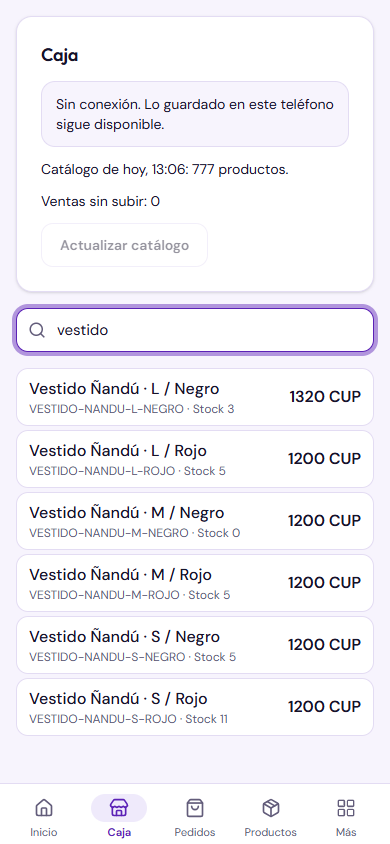
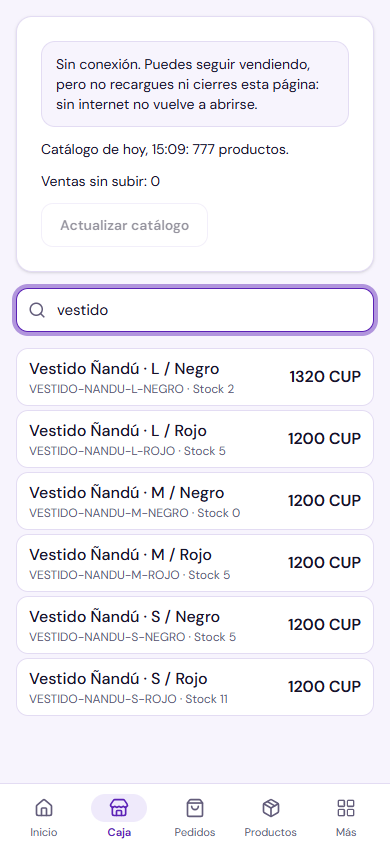
feat(pos): sell at the counter from the web admin
Whoever has an iPhone has no app yet: Admin > Caja now opens on a sale
screen in the browser, the same one as Kshop Admin, and keeps the summary
in its own tab. With the page open it keeps selling without a connection
and uploads when it comes back; it does not promise to open offline.

Changed region(s): [[0.0308, 0.0616, 0.9846, 0.8626]]

diff --git a/apps/web/src/features/pos/components/PosPage.tsx b/apps/web/src/features/pos/components/PosPage.tsx
@@ -1,12 +1,12 @@
 "use client";
 
 import { formatMoney, formatRate, orderCode, posFlagText } from "@kshop/core";
-import { useCheckoutSettings, LoadError, ORDER_TABLES, useStoreVersion } from "@kshop/admin";
+import { useCheckoutSettings, LoadError, ORDER_TABLES, PosScreen, useStoreVersion } from "@kshop/admin";
 import type { PosOverview } from "@kshop/data";
 import { Card, cn } from "@kshop/ui";
 import { Link, useStore } from "@kshop/storefront";
-import { useEffect, useState } from "react";
-import { useAdmin } from "@/app/s/[storeSlug]/admin/admin-context";
+import { useEffect, useState, useSyncExternalStore } from "react";
+import { menuSection, useAdmin } from "@/app/s/[storeSlug]/admin/admin-context";
 import { useSession } from "@/lib/session";
 
 const PERIODS = [
@@ -22,8 +22,69 @@ const dateTime = (iso: string) =>
     timeZone: "America/Havana",
   }).format(new Date(iso));
 
-/** Admin › Caja: the sale happens on the phone (Kshop Admin); here the owner sees what came in and what to check. */
+function subscribeOnline(onChange: () => void) {
+  window.addEventListener("online", onChange);
+  window.addEventListener("offline", onChange);
+  return () => {
+    window.removeEventListener("online", onChange);
+    window.removeEventListener("offline", onChange);
+  };
+}
+
+/** Admin › Caja: selling from any browser (an iPhone has no app yet) and what came in. Without internet, Kshop Admin. */
 export function PosPage() {
+  const store = useStore();
+  const admin = useAdmin();
+  const online = useSyncExternalStore(
+    subscribeOnline,
+    () => navigator.onLine,
+    () => true,
+  );
+  // A managed section is read-only for the staff: the server would refuse their sales.
+  const canSell = menuSection(admin, "pos").visibility !== "managed";
+  const [chosen, setChosen] = useState<"sell" | "summary">("sell");
+  const tab = canSell ? chosen : "summary";
+
+  return (
+    <div className="flex max-w-3xl flex-col gap-4">
+      <h1 className="text-2xl font-semibold">Caja</h1>
+      {canSell && (
+        <div role="tablist" aria-label="Caja" className="flex gap-1.5">
+          {(
+            [
+              { key: "sell", label: "Vender" },
+              { key: "summary", label: "Resumen" },
+            ] as const
+          ).map((t) => (
+            <button
+              key={t.key}
+              role="tab"
+              aria-selected={tab === t.key}
+              onClick={() => setChosen(t.key)}
+              className={cn(
+                "h-[34px] rounded-full border px-3.5 text-sm whitespace-nowrap",
+                tab === t.key
+                  ? "border-night bg-night font-semibold text-white"
+                  : "bg-background hover:bg-surface",
+              )}
+            >
+              {t.label}
+            </button>
+          ))}
+        </div>
+      )}
+      {/* Hidden, not unmounted: looking at the summary does not lose the sale in progress. */}
+      {canSell && (
+        <div hidden={tab !== "sell"} className="[--app-tabs-height:0px] md:[--app-sidebar-width:248px]">
+          <PosScreen storeId={store.id} online={online} />
+        </div>
+      )}
+      {tab === "summary" && <PosSummary />}
+    </div>
+  );
+}
+
+function PosSummary() {
   const store = useStore();
   const admin = useAdmin();
   const { reads } = useSession();
@@ -50,19 +111,19 @@ export function PosPage() {
   }, [reads, store.id, days, live, attempt]);
 
   return (
-    <div className="flex max-w-3xl flex-col gap-4">
-      <h1 className="text-2xl font-semibold">Caja</h1>
-      <Card className="text-sm">
-        <p>
-          Se vende desde <strong>Kshop Admin</strong> en el teléfono, también sin internet. Las ventas llegan
-          aquí cuando el teléfono tiene conexión, con la fecha en que se vendieron.
-        </p>
+    <div className="flex flex-col gap-4">
+      <p className="text-sm text-muted-foreground" data-testid="pos-web-note">
+        Para vender sin internet, usa Kshop Admin en Android: sus ventas llegan aquí cuando el teléfono tiene
+        conexión, con la fecha en que se vendieron. La venta desde esta página necesita internet para abrirse.
         {admin.enabledModules.has("mobile_app") && (
-          <Link href="/admin/mobile-app" className="mt-2 inline-block underline">
-            Instalar Kshop Admin
-          </Link>
+          <>
+            {" "}
+            <Link href="/admin/mobile-app" className="underline">
+              Instalar Kshop Admin
+            </Link>
+          </>
         )}
-      </Card>
+      </p>
 
       <div role="tablist" aria-label="Periodo" className="flex gap-1.5">
         {PERIODS.map((p) => (

diff --git a/packages/admin/src/pos/PosScreen.tsx b/packages/admin/src/pos/PosScreen.tsx
@@ -22,7 +22,7 @@ import { Alert, Badge, Button, Card, Dialog, Input, Label, Select, Minus, Plus, 
 import { useMemo, useRef, useState } from "react";
 import { PosDay } from "./PosDay";
 import { usePosSales } from "./pos-sync";
-import { PosStatus, usePosCatalog, usePosStorage } from "./PosStatus";
+import { PosStatus, usePosCatalog, usePosPlace, usePosStorage } from "./PosStatus";
 import type { PosCatalogSnapshot } from "./storage";
 
 type CartLine = { item: PosCatalogItem; quantity: number; unitPrice: number };
@@ -34,6 +34,7 @@ const itemLabel = (item: PosCatalogItem) =>
 /** Selling at the counter, with or without a connection: search, add, charge. The sale is saved on the phone first. */
 export function PosScreen({ storeId, online }: { storeId: string; online: boolean }) {
   const storage = usePosStorage();
+  const place = usePosPlace();
   const catalog = usePosCatalog(storeId, online);
   const [query, setQuery] = useState("");
   const [cart, setCart] = useState<CartLine[]>([]);
@@ -89,7 +90,7 @@ export function PosScreen({ storeId, online }: { storeId: string; online: boolea
 
       {saved && (
         <Alert data-testid="pos-saved">
-          Venta {saved.number} guardada en el teléfono.{saved.change ? ` Vuelto: ${saved.change}.` : ""}
+          Venta {saved.number} guardada en este {place}.{saved.change ? ` Vuelto: ${saved.change}.` : ""}
         </Alert>
       )}
 
@@ -186,7 +187,7 @@ export function PosScreen({ storeId, online }: { storeId: string; online: boolea
       )}
 
       {cart.length > 0 && (
-        <div className="fixed inset-x-0 bottom-[calc(var(--app-tabs-height,4rem)+env(safe-area-inset-bottom))] z-10 flex items-center justify-between gap-3 border-t bg-background px-4 py-3">
+        <div className="fixed right-0 left-[var(--app-sidebar-width,0px)] bottom-[calc(var(--app-tabs-height,4rem)+env(safe-area-inset-bottom))] z-10 flex items-center justify-between gap-3 border-t bg-background px-4 py-3">
           <span className="text-lg font-semibold" data-testid="pos-total">
             {formatMoney(total, currency)}
           </span>
@@ -274,6 +275,7 @@ function PosCheckout({
   const [method, setMethod] = useState("");
   const [saving, setSaving] = useState(false);
   const [error, setError] = useState<string | null>(null);
+  const place = usePosPlace();
 
   const same = paidIn === currency;
   const { unit, per } = rateQuote(paidIn, currency);
@@ -320,7 +322,7 @@ function PosCheckout({
     try {
       await onConfirm([...payments, paid]);
     } catch {
-      setError("No se pudo guardar la venta en el teléfono. Inténtalo de nuevo; no se ha perdido nada.");
+      setError(`No se pudo guardar la venta en este ${place}. Inténtalo de nuevo; no se ha perdido nada.`);
       setSaving(false);
     }
   }

diff --git a/apps/web/src/app/s/[storeSlug]/admin/AdminShell.tsx b/apps/web/src/app/s/[storeSlug]/admin/AdminShell.tsx
@@ -20,6 +20,7 @@ import {
   CreditCard,
   Users,
   ConfirmProvider,
+  useConfirm,
 } from "@kshop/ui";
 import Link from "next/link";
 import { useRouter } from "next/navigation";
@@ -31,7 +32,7 @@ import { FullkodCredit } from "@/components/FullkodCredit";
 import { ADMIN_GROUPS, type AdminGroup } from "@/features/types";
 import { useStorePathname } from "@/lib/navigation";
 import { useSession } from "@/lib/session";
-import { ORDER_TABLES, useStoreVersion } from "@kshop/admin";
+import { ORDER_TABLES, usePosStorage, useStoreVersion } from "@kshop/admin";
 import { useStore } from "@kshop/storefront";
 import {
   AdminContext,
@@ -292,15 +293,7 @@ export function AdminShell({ children }: { children: ReactNode }) {
           </span>
           <span className="truncate text-xs text-[#C8C0DA]">{email}</span>
         </span>
-        <button
-          type="button"
-          onClick={signOut}
-          aria-label="Cerrar sesión"
-          title="Cerrar sesión"
-          className="flex size-9 items-center justify-center rounded-lg text-[#D9D3EA] hover:bg-white/8 hover:text-white"
-        >
-          <LogOut size={16} aria-hidden />
-        </button>
+        <SidebarSignOut signOut={signOut} counter={admin.enabledModules.has("pos")} />
       </div>
     </>
   );
@@ -417,6 +410,43 @@ export function AdminShell({ children }: { children: ReactNode }) {
         </div>
       </ConfirmProvider>
     </AdminContext.Provider>
+  );
+}
+
+/** The sales of the counter stay in this browser, but only someone of this store signed in here can upload them. */
+function SidebarSignOut({ signOut, counter }: { signOut: () => Promise<void>; counter: boolean }) {
+  const store = useStore();
+  const storage = usePosStorage();
+  const { confirm } = useConfirm();
+
+  async function ask() {
+    const sales = counter ? await storage.listSales(store.id).catch(() => []) : [];
+    const pending = sales.filter((s) => !s.uploaded).length;
+    if (
+      pending > 0 &&
+      !(await confirm({
+        title: `Hay ${pending === 1 ? "1 venta" : `${pending} ventas`} sin subir`,
+        description:
+          "Se quedan guardadas en este navegador, pero no se subirán hasta que alguien de la tienda vuelva a entrar aquí.",
+        confirmLabel: "Cerrar sesión igualmente",
+        tone: "destructive",
+      }))
+    ) {
+      return;
+    }
+    await signOut();
+  }
+
+  return (
+    <button
+      type="button"
+      onClick={() => void ask()}
+      aria-label="Cerrar sesión"
+      title="Cerrar sesión"
+      className="flex size-9 items-center justify-center rounded-lg text-[#D9D3EA] hover:bg-white/8 hover:text-white"
+    >
+      <LogOut size={16} aria-hidden />
+    </button>
   );
 }
 

diff --git a/packages/admin/src/pos/PosStatus.tsx b/packages/admin/src/pos/PosStatus.tsx
@@ -20,6 +20,11 @@ export function usePosStorage(): PosStorage {
   return config.posStorage ?? (webStorage ??= createIndexedDbPosStorage());
 }
 
+/** Where the sales are kept, in the words of the screen: the app's files or the browser of the web admin. */
+export function usePosPlace(): "teléfono" | "navegador" {
+  return useSession().config.posStorage ? "teléfono" : "navegador";
+}
+
 export function usePosCatalog(storeId: string, online: boolean) {
   const { api } = useSession();
   const storage = usePosStorage();
@@ -92,24 +97,29 @@ export function PosStatus({
   pending: number | null;
 }) {
   const { snapshot, loaded, refreshing, failed, refresh } = catalog;
+  const place = usePosPlace();
 
   const products = useMemo(() => snapshot?.items.length ?? 0, [snapshot]);
 
   return (
     <Card className="flex flex-col gap-3" data-testid="pos-status">
-      <h2 className="text-lg font-semibold">Caja</h2>
+      {place === "teléfono" && <h2 className="text-lg font-semibold">Caja</h2>}
       {!online && (
-        <Alert data-testid="pos-offline">Sin conexión. Lo guardado en este teléfono sigue disponible.</Alert>
+        <Alert data-testid="pos-offline">
+          {place === "teléfono"
+            ? "Sin conexión. Lo guardado en este teléfono sigue disponible."
+            : "Sin conexión. Puedes seguir vendiendo, pero no recargues ni cierres esta página: sin internet no vuelve a abrirse."}
+        </Alert>
       )}
       {!loaded ? (
-        <p className="text-sm text-muted-foreground">Leyendo el teléfono…</p>
+        <p className="text-sm text-muted-foreground">Leyendo el {place}…</p>
       ) : snapshot ? (
         <p className="text-sm" data-testid="pos-catalog">
           Catálogo {catalogAge(snapshot.savedAt)}: {products} productos.
         </p>
       ) : (
         <Alert variant="destructive" data-testid="pos-no-catalog">
-          Este teléfono aún no tiene el catálogo.{" "}
+          Este {place} aún no tiene el catálogo.{" "}
           {online ? "Descárgalo para vender." : "Conéctalo a internet una vez."}
         </Alert>
       )}

diff --git a/packages/admin/src/pos/PosDay.tsx b/packages/admin/src/pos/PosDay.tsx
@@ -2,6 +2,7 @@
 
 import { formatMoney, posCartTotal, posDaySummary, type CurrencyCode } from "@kshop/core";
 import { Alert, Badge, Button, Card, useConfirm } from "@kshop/ui";
+import { usePosPlace } from "./PosStatus";
 import type { QueuedSale } from "./storage";
 
 /** The day on this phone, per currency as it was charged, and what happened to each sale. */
@@ -21,6 +22,7 @@ export function PosDay({
   onVoid: (sale: QueuedSale) => Promise<void>;
 }) {
   const { confirm } = useConfirm();
+  const place = usePosPlace();
   const summary = posDaySummary(sales, currency);
   const held = sales.filter((s) => s.held && !s.uploaded);
   const pending = sales.filter((s) => !s.uploaded);
@@ -43,7 +45,7 @@ export function PosDay({
     <Card className="flex flex-col gap-3" data-testid="pos-day">
       <div className="flex items-start justify-between gap-3">
         <div>
-          <h2 className="font-semibold">Hoy en este teléfono</h2>
+          <h2 className="font-semibold">Hoy en este {place}</h2>
           <p className="text-sm" data-testid="pos-day-summary">
             {summary.count} {summary.count === 1 ? "venta" : "ventas"}
             {summary.cash.map((c) => ` · ${formatMoney(c.amount, c.currency)}`).join("")}
@@ -65,12 +67,14 @@ export function PosDay({
       {held.length > 0 && (
         <Alert variant="destructive" data-testid="pos-held">
           {held.length === 1 ? "1 venta retenida" : `${held.length} ventas retenidas`}:{" "}
-          {held[0]?.held?.message} Siguen guardadas en el teléfono y se suben solas cuando se resuelva.
+          {held[0]?.held?.message} Siguen guardadas en este {place} y se suben solas cuando se resuelva.
         </Alert>
       )}
       {pending.length > 0 && (
         <p className="text-xs text-muted-foreground">
-          Si desinstalas la app, las ventas sin subir se pierden.
+          {place === "teléfono"
+            ? "Si desinstalas la app, las ventas sin subir se pierden."
+            : "Las ventas sin subir solo están en este navegador: si borras sus datos, se pierden."}
         </p>
       )}
 

diff --git a/AGENTS.md b/AGENTS.md
@@ -128,7 +128,7 @@
 | `pnpm e2e:setup` · `pnpm e2e:api` · `pnpm e2e:cleanup` | Cuentas `@e2e.kshop.test`, checks de API y limpieza (con `pnpm dev` corriendo) |
 | `pnpm e2e:catalog` · `pnpm e2e:excel` · `pnpm e2e:excel-load` | API del catálogo (tiendas temporales), Excel e imágenes por URL (Tienda Demo) y carga de 1 000 filas (Tienda Demo, borra lo creado), con `pnpm dev` corriendo |
 | `pnpm e2e:orders` · `pnpm qa:orders` | API de clientes, carrito, checkout y pedidos (tiendas temporales) y QA en navegador del ciclo de compra en la Tienda Demo (playwright-core con el Chromium de la caché de Playwright o `QA_CHROMIUM_PATH`; capturas en `.titan/qa/fase-3/`), con `pnpm dev` corriendo |
-| `pnpm e2e:pos` · `pnpm qa:pos` | POS: API de la caja en tiendas temporales (catálogo sin costos, subir ventas, repetir sin duplicar, sin stock, sección y tienda suspendida) y QA en navegador de lo que ve el dueño en la Tienda Demo: venta sin teléfono, pestaña Mostrador, Admin › Caja, anotaciones y cancelar (capturas en `.titan/qa/pos/`), con `pnpm dev` corriendo (`E2E_APP_URL`/`QA_BASE_URL` para otro puerto) |
+| `pnpm e2e:pos` · `pnpm qa:pos` | POS: API de la caja en tiendas temporales (catálogo sin costos, subir ventas, repetir sin duplicar, sin stock, sección y tienda suspendida) y QA en navegador de lo que ve el dueño en la Tienda Demo: venta sin teléfono, pestaña Mostrador, Admin › Caja, anotaciones y cancelar, y vender desde la web, también perdiendo la conexión (capturas en `.titan/qa/pos/`), con `pnpm dev` corriendo (`E2E_APP_URL`/`QA_BASE_URL` para otro puerto) |
 | `pnpm qa:pos-offline` | POS: Kshop Admin sin red en el navegador (arranque, token caducado, vender, respuesta perdida, rechazo, anular, 7 días, cerrar sesión) en la Tienda Demo; con `pnpm dev` y el Vite de Kshop Admin en 5174 con `KSHOP_API_URL` al puerto de la web y `db-env`; capturas en `.titan/qa/pos/`. No sustituye la prueba en un Android real |
 | `pnpm qa:payments` | KSH0002: QA en navegador del cobro en otra moneda en la Tienda Demo (móvil y escritorio; capturas en `.titan/qa/pos/`), con `pnpm dev` corriendo (`QA_BASE_URL` para otro puerto) |
 | `pnpm e2e:discounts` · `pnpm e2e:notifications` · `pnpm qa:discounts` · `pnpm qa:notifications` | Fase 4: API de promociones/cupones (carrera por el último uso) y de avisos WhatsApp en `dry_run` (tiendas temporales), y QA en navegador en la Tienda Demo (capturas en `.titan/qa/fase-4/`), con `pnpm dev` corriendo |

diff --git a/.titan/plans/prp-pos-offline.md b/.titan/plans/prp-pos-offline.md
@@ -296,6 +296,12 @@ lector y, si hace falta, venta por peso.
 - **Error:** `getByRole("heading", { name: "Entrega" })` coincide también con «Entregado». **Fix:** `exact: true`.
 - **Error:** tras cambiar `core`, Turbopack dio 500 («module factory is not available»). **Fix:** reiniciar el servidor. `qa:orders` toma el puerto de `QA_STORE_URL`, no de `QA_BASE_URL`.
 
+### 2026-10-31: Caja también en la web (pedido de Roberto)
+- **Por qué:** quien tiene iPhone aún no tiene app; debe poder vender desde el navegador, aunque pierda lo de sin conexión.
+- **Piezas:** Admin › Caja con pestañas **Vender** (`PosScreen`, la misma de Kshop Admin, con IndexedDB) y **Resumen**. `usePosPlace` dice «teléfono» o «navegador». `SidebarSignOut` avisa si quedan ventas sin subir.
+- **Decisiones técnicas:** el resumen no desmonta la venta en curso. En sección gestionada el personal solo ve Resumen. Con la página abierta y sin red sigue vendiendo y sube al volver la red, con un aviso de no recargar; la web no promete abrir sin internet (no hay service worker). La barra de cobrar usa `--app-tabs-height` y `--app-sidebar-width`, que pone la web.
+- **Medido:** `qa:pos` 35/35 (tamaño iPhone y escritorio, sin red, sección gestionada), `qa:pos-offline` 36/36, typecheck, lint, tests y `build` en verde. **No probado en un iPhone real** (Safari).
+
 ---
 
 ## Gotchas

diff --git a/.titan/memory/project/2026-10-31-donde-quedamos.md b/.titan/memory/project/2026-10-31-donde-quedamos.md
@@ -6,6 +6,7 @@ Supera a `2026-10-30-donde-quedamos.md`.
 - **En producción:** cobro en varias monedas y POS fases 1 y 2 (módulo y servidor).
 - **En `main`, sin subir:** POS fases 3, 4, 5 y 6 (la migración de la 6 ya está en producción; es compatible con la web desplegada): Kshop Admin arranca sin red, pantalla de Caja con búsqueda por trozos, cobro mixto, cola de subida automática, ventas retenidas, anulación, resumen del día. En la web: pestaña «Mostrador», cancelar una venta entregada, anotaciones y tasas, Admin › Caja. Lo del teléfono no llega a nadie hasta generar un APK.
 - `qa:pos-offline` 36/36 en navegador. **No probado en un Android real:** archivos nativos, red nativa, matar la app, reiniciar.
+- **Caja en la web:** Admin › Caja › Vender, para quien no tiene app (iPhone). Sin probar en un iPhone real.
 
 ## Qué sigue
 1. **Fase 7:** APK en GitHub Actions y prueba en Android en modo avión. Necesita permiso de Roberto para subir y generar, y saber en qué teléfono.
